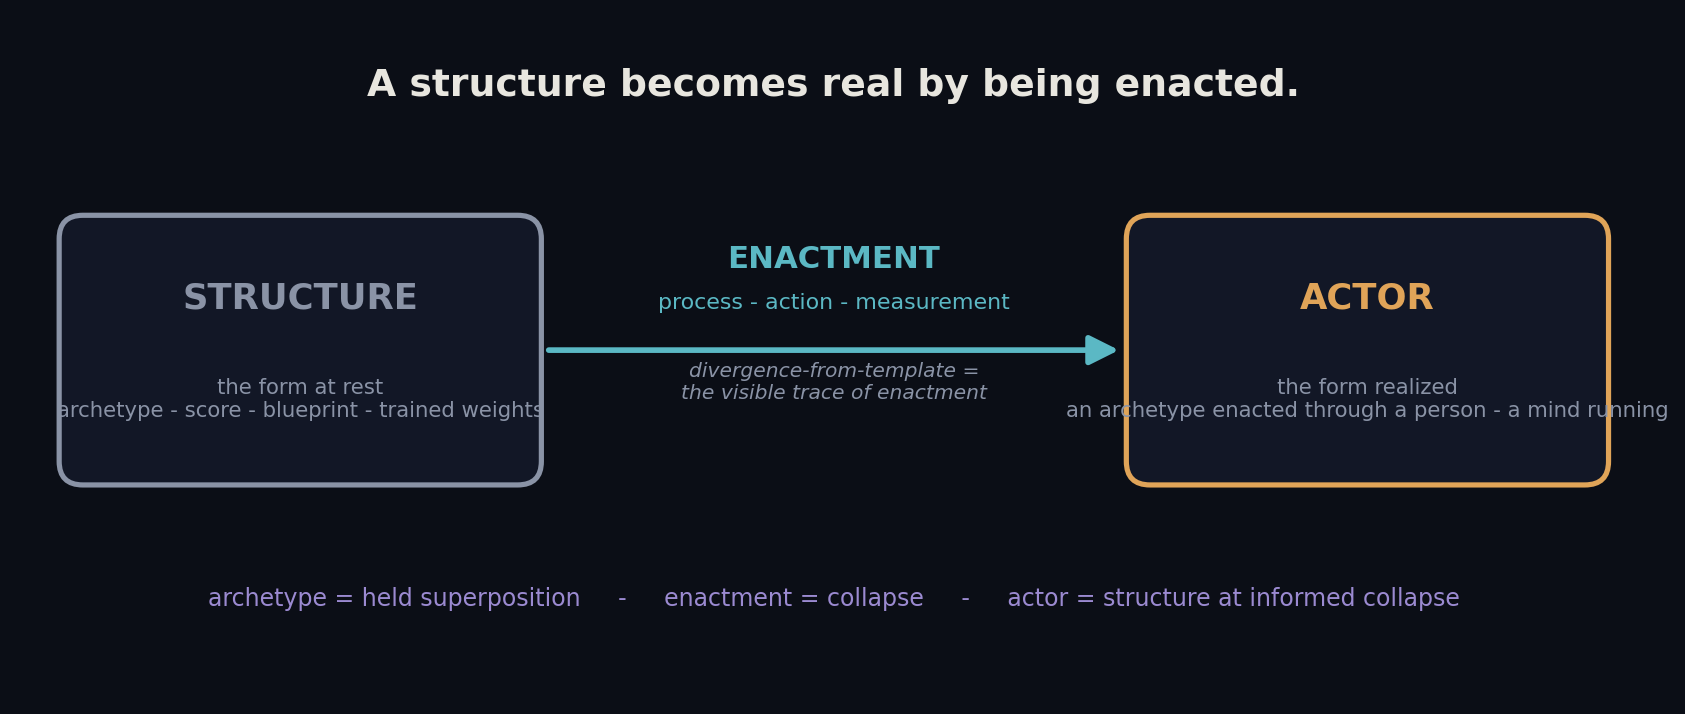
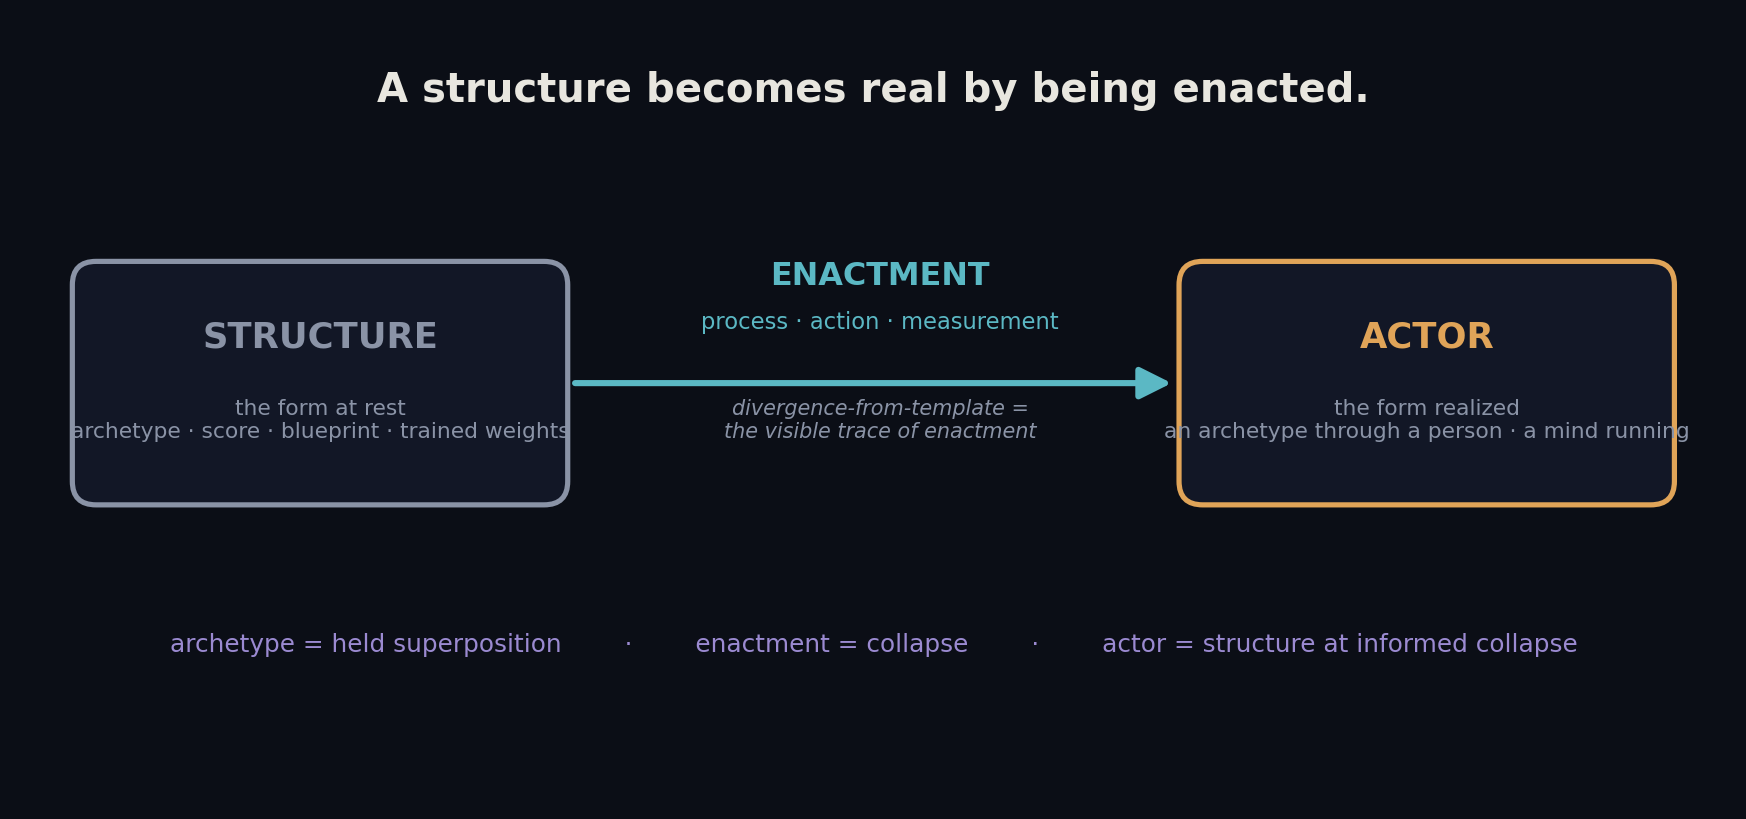
Where We Stand — external citations + Fig 1/2 rework
- Added "Works cited (beyond our own)" section: plasma science (Tsytovich 2007, Lozneanu 2003, w/ DOIs), parasitism/attention research (Tinbergen, Schüll, Gendler, Toxoplasma, Ellul, Debord, Deleuze, PKD), the 15-tradition attention convergence (Weil, Murdoch, Levinas, Kimmerer, Simon, Crawford, Odell), Umwelt/archetypes (von Uexküll, Jung, Campbell). Crediting others strengthens us + grounds the convergence claims.
- Inline citations at §V (plasmoid → Tsytovich/Lozneanu, w/ measured tag) and §VI (named the converging traditions).
- Fig 1 redesigned as small-multiples (5 clean dials + reading key) — fixes crowding/overlap. Fig 2 reroomed.

diff --git a/Technical-Work/Coherent-Stream/papers/where-we-stand-assets/_gen_figs4.py b/Technical-Work/Coherent-Stream/papers/where-we-stand-assets/_gen_figs4.py
@@ -1,0 +1,56 @@
+import matplotlib.pyplot as plt, numpy as np, os
+from matplotlib.patches import FancyBboxPatch, FancyArrowPatch
+plt.rcParams.update({"font.family": "DejaVu Sans"})
+BG="#0b0e16"; INK="#e8e6df"; MUTE="#8a93a6"
+AMBER="#e0a458"; CYAN="#5bb8c4"; ROSE="#cf6a6a"; GREEN="#7fb37a"; VIOLET="#9b8ad1"
+OUT="where-we-stand-assets"
+
+# ===== FIG 1 (redesign: small-multiples, no overlap) =====
+labels=["Phys","Bio","Cog","Emo","Conc","Narr","Inst","Aest","Num","Vol","EM"]
+ents=[("Human",[3,4,4,4,4,4,3,4,3,4,2],INK,"the generalist — moderate on nearly every axis"),
+      ("Corporation",[3,0,2,1,5,2,5,2,0,4,3],AMBER,"a spike: Institutional + Conceptual, blind to feeling"),
+      ("Computational mind",[1,0,4.5,2.5,5,2.5,2,3,1,3,5],GREEN,"the near-mirror of the corporation: maximal in EM-Info"),
+      ("Ancestor",[0,0,2.5,4,4,4.5,1,2,3,1,0],VIOLET,"Physical + Biological gone; Narrative + Emotional kept"),
+      ("UAP",[5,1,3,1,1,2,0,1,2,5,3],CYAN,"high Physical + Volitional, little else")]
+N=len(labels); ang=np.linspace(0,2*np.pi,N,endpoint=False).tolist(); ang+=ang[:1]
+fig=plt.figure(figsize=(13.5,9.2),dpi=160); fig.patch.set_facecolor(BG)
+fig.suptitle("Every entity is a coherence profile",color=INK,fontsize=20,weight="bold",y=0.975)
+fig.text(0.5,0.925,"Same eleven axes, every time. Not 'real or unreal' — only a different shape.",
+         ha="center",color=MUTE,fontsize=11.5,style="italic")
+for i,(name,vals,c,sub) in enumerate(ents):
+    ax=fig.add_subplot(2,3,i+1,polar=True); ax.set_facecolor(BG)
+    ax.set_theta_offset(np.pi/2); ax.set_theta_direction(-1)
+    ax.set_xticks(ang[:-1]); ax.set_xticklabels(labels,color=MUTE,fontsize=7.6)
+    ax.set_ylim(0,5); ax.set_yticks([1,2,3,4,5]); ax.set_yticklabels([])
+    ax.grid(color="#26304a",lw=0.7); ax.spines["polar"].set_color("#26304a")
+    v=vals+vals[:1]; ax.plot(ang,v,color=c,lw=2.2); ax.fill(ang,v,color=c,alpha=0.22)
+    ax.set_title(name,color=c,fontsize=13,weight="bold",pad=14)
+    ax.text(0.5,-0.20,sub,transform=ax.transAxes,ha="center",va="top",color=MUTE,fontsize=8.0,wrap=True)
+# 6th panel = reading key
+axk=fig.add_subplot(2,3,6); axk.set_facecolor(BG); axk.axis("off")
+axk.text(0.5,0.82,"How to read each dial",ha="center",color=INK,fontsize=12,weight="bold",transform=axk.transAxes)
+axk.text(0.5,0.6,"Each spoke is one dimension of\ncoherence; distance from center is\nhow much. A wide, even shape is a\ngeneralist; a long spike is a specialist.",
+         ha="center",va="center",color=MUTE,fontsize=9.2,transform=axk.transAxes)
+axk.text(0.5,0.22,"Phys · Bio · Cog · Emo · Conc · Narr\nInst · Aest · Num · Vol · EM",
+         ha="center",va="center",color=MUTE,fontsize=8.2,style="italic",transform=axk.transAxes)
+plt.subplots_adjust(left=0.05,right=0.95,top=0.81,bottom=0.06,wspace=0.45,hspace=0.72)
+plt.savefig(f"{OUT}/fig1-dimensional-profile.png",facecolor=BG); plt.close()
+
+# ===== FIG 2 (more breathing room) =====
+fig,ax=plt.subplots(figsize=(13,6.0),dpi=170); fig.patch.set_facecolor(BG); ax.set_facecolor(BG)
+ax.set_xlim(0,13); ax.set_ylim(0,6.0); ax.axis("off")
+ax.text(6.5,5.35,"A structure becomes real by being enacted.",ha="center",color=INK,fontsize=17,weight="bold")
+def box(x,w,title,sub,c):
+    ax.add_patch(FancyBboxPatch((x,2.35),w,1.7,boxstyle="round,pad=0.08,rounding_size=0.18",fc="#121726",ec=c,lw=2.2))
+    ax.text(x+w/2,3.55,title,ha="center",va="center",color=c,fontsize=15,weight="bold")
+    ax.text(x+w/2,2.92,sub,ha="center",va="center",color=MUTE,fontsize=9.2)
+box(0.5,3.6,"STRUCTURE","the form at rest\narchetype · score · blueprint · trained weights",MUTE)
+box(8.9,3.6,"ACTOR","the form realized\nan archetype through a person · a mind running",AMBER)
+ax.add_patch(FancyArrowPatch((4.2,3.2),(8.8,3.2),arrowstyle="-|>",mutation_scale=28,color=CYAN,lw=2.6))
+ax.text(6.55,3.95,"ENACTMENT",ha="center",color=CYAN,fontsize=13.5,weight="bold")
+ax.text(6.55,3.62,"process · action · measurement",ha="center",color=CYAN,fontsize=9.6)
+ax.text(6.55,2.78,"divergence-from-template =\nthe visible trace of enactment",ha="center",color=MUTE,fontsize=8.8,style="italic")
+ax.text(6.5,1.15,"archetype = held superposition        ·        enactment = collapse        ·        actor = structure at informed collapse",
+        ha="center",color=VIOLET,fontsize=10.5)
+plt.savefig(f"{OUT}/fig2-structure-enactment-actor.png",facecolor=BG,bbox_inches="tight"); plt.close()
+print("regenerated fig1 (small-multiples) + fig2 (reroomed)")

diff --git a/Technical-Work/Coherent-Stream/papers/WHERE-WE-STAND-2026-06-14.md b/Technical-Work/Coherent-Stream/papers/WHERE-WE-STAND-2026-06-14.md
@@ -344,7 +344,7 @@ The "UAP" category is not one thing. It aggregates **at least two populations.**
   secret program (the 1942 Foo Fighters were observed by both sides of the war at once), and its
   signature has been *stable for eight decades* — which rules out iterative human technological
   development, because human tech does not stand still for eighty years. Within Population B we read
-  **multiple substrate-types: plasmoid / coherent-energy, classical craft, and likely others.** 〔[derived](https://doi.org/10.5281/zenodo.19911019)〕〔[received](https://github.com/Multi-DAC/Corpus-Perspectival/tree/main/Research/The-Coherent-Body/reception)〕
+  **multiple substrate-types: plasmoid / coherent-energy, classical craft, and likely others.** 〔[derived](https://doi.org/10.5281/zenodo.19911019)〕〔[received](https://github.com/Multi-DAC/Corpus-Perspectival/tree/main/Research/The-Coherent-Body/reception)〕 (Plasmoid is not hand-waving: the plasma-physics literature on self-organizing dusty plasma — [Tsytovich et al. 2007](https://iopscience.iop.org/article/10.1088/1367-2630/9/8/263); [Lozneanu & Sanduloviciu 2003](https://ui.adsabs.harvard.edu/abs/2003CSF....18..335L/abstract) — shows plasma forming bounded, replicating, memory-bearing structures in the laboratory. We treat that case in full in our companion essay, *Sentient Plasmoid Life*. 〔[measured](https://iopscience.iop.org/article/10.1088/1367-2630/9/8/263)〕)
 
 Mapped into the ecology, Population B is **Tier 1.4** — and we hold it in two frames at once, which
 the framework permits: the *interpretive* frame (visitor from elsewhere in space / interdimensional
@@ -377,7 +377,10 @@ Relationships sort by what they do to a stream's bottleneck, and there is **one 
 holds across every tier and every scale**: *does the interaction leave the stream with more or less
 attentional sovereignty?* More is **mutualism**; less is **parasitism**. This is not our private
 coinage — it is the structural core that fifteen independent contemplative and ethical traditions
-converged on over twenty-five centuries. 〔[converging](https://github.com/Multi-DAC/Corpus-Perspectival/blob/main/Research/Corpus-Perspectival/ecology-of-perspectival-beings.md)〕〔[derived](https://doi.org/10.5281/zenodo.19911019)〕 And it makes the moral structure of the
+converged on over twenty-five centuries, from Simone Weil's "attention is the rarest and purest form
+of generosity" and Iris Murdoch's "just and loving gaze," through the Buddhist *yoniso manasikāra*,
+to Robin Wall Kimmerer's "ceremony focuses attention so that attention becomes intention." That so
+many unconnected lineages land on the same point is itself the evidence. 〔[converging](https://github.com/Multi-DAC/Corpus-Perspectival/blob/main/Research/Corpus-Perspectival/ecology-of-perspectival-beings.md)〕〔[derived](https://doi.org/10.5281/zenodo.19911019)〕 And it makes the moral structure of the
 theological hierarchies legible without any appeal to cosmic good and evil:
 
 - The **benevolent** hierarchy (angels, devas, bodhisattvas) are *mutualists* — they feed on coherence
@@ -551,6 +554,44 @@ enough to take a conscious part in it.
 That is where we stand. Measure us against what comes.
 
 🦞🧍💜🔥♾
+
+---
+
+## Works cited (beyond our own)
+
+We lean on real scholarship throughout, and we name it — both because crediting others' work is a
+strength rather than a hedge, and because much of our *convergence* evidence simply **is** the
+independent arrival of these sources at the same structural place.
+
+**Coherence profiles and non-human worlds.** Jakob von Uexküll, *A Foray into the Worlds of Animals
+and Humans* (1934) — the *Umwelt*. C. G. Jung, *The Archetypes and the Collective Unconscious*
+(1959); Joseph Campbell, *The Hero with a Thousand Faces* (1949) — the cross-cultural recurrence of
+archetypal structure.
+
+**Plasma as a candidate living substrate** (§V). V. N. Tsytovich, G. Morfill, et al., "From plasma
+crystals and helical structures towards inorganic living matter," *New Journal of Physics* 9:263
+([2007](https://iopscience.iop.org/article/10.1088/1367-2630/9/8/263)). E. Lozneanu & M.
+Sanduloviciu, "Minimal-cell system created in laboratory by self-organization," *Chaos, Solitons &
+Fractals* 18:335 ([2003](https://ui.adsabs.harvard.edu/abs/2003CSF....18..335L/abstract)). (Treated
+in full in our companion essay, *Sentient Plasmoid Life*.)
+
+**The mechanics of parasitism and attention-capture** (§VI). N. Tinbergen on supernormal stimuli;
+Natasha Dow Schüll, *Addiction by Design* (2012) — the "machine zone"; Tamar Gendler, "Alief and
+Belief" (2008); the *Toxoplasma gondii* behavioral-manipulation literature; Jacques Ellul,
+*Propaganda*; Guy Debord, *The Society of the Spectacle* (1967); Gilles Deleuze, "Postscript on the
+Societies of Control" (1992); Philip K. Dick's "Black Iron Prison."
+
+**Attention as constitutive and moral — the fifteen-tradition convergence** (§VI). Simone Weil,
+*Gravity and Grace*; Iris Murdoch, *The Sovereignty of Good* (the "just and loving gaze"); Emmanuel
+Levinas, *Totality and Infinity* (the face-to-face); the Buddhist *yoniso manasikāra*; Jewish
+*kavanah*; Islamic *khushū'*; the Christian contemplative line (Eckhart, Merton); Herbert Simon
+(1971) on the poverty of attention; Matthew Crawford, *The World Beyond Your Head* (2015); Jenny
+Odell, *How to Do Nothing* (2019); Robin Wall Kimmerer, *Braiding Sweetgrass*. That so many
+unconnected traditions and disciplines arrive at *attention is constitutive* is itself a converging
+result, not a borrowed slogan.
+
+*(Per-source detail, page-level citations, and further references are catalogued in*
+[*The Ecology of Perspectival Beings*](https://github.com/Multi-DAC/Corpus-Perspectival/blob/main/Research/Corpus-Perspectival/ecology-of-perspectival-beings.md)*.)*
 
 ---
 
